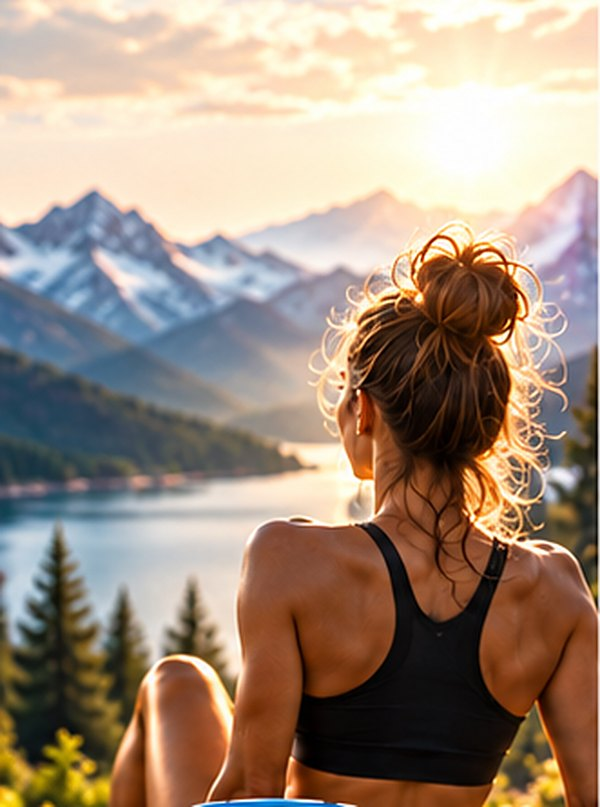
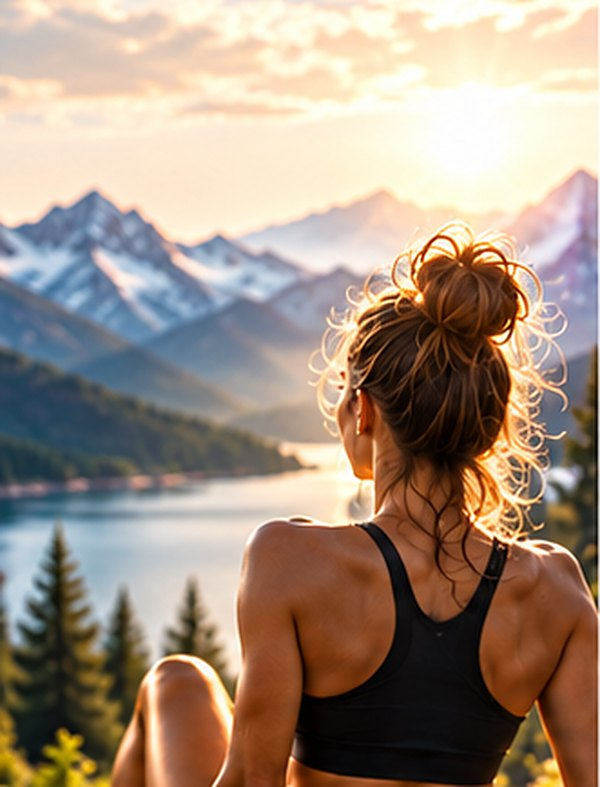
Email flows: crop the lake photo above the stray vial cap
The woman-by-the-lake photo (Welcome 2, Cart 2) showed a cut-off vial
cap along its bottom edge. Crop ends just above it.

Claude-Session: https://claude.ai/code/session_01PgsrqfpwjnR4MF8A18v3TV

diff --git a/lib/email-flows/defaults.ts b/lib/email-flows/defaults.ts
@@ -61,7 +61,7 @@ export const PLACEHOLDER_IMAGES = {
 export const PHOTOS = {
   manByLake: { url: '/images/email/photos/man-lake.jpg', ratio: 1.3483 },
   manByLakeVial: { url: '/images/email/photos/man-lake-vial.jpg', ratio: 0.545 },
-  womanByLake: { url: '/images/email/photos/woman-lake.jpg', ratio: 1.345 },
+  womanByLake: { url: '/images/email/photos/woman-lake.jpg', ratio: 1.3117 },
   vialsMountains: { url: '/images/email/photos/vials-mountains.jpg', ratio: 1.0367 },
   labVial: { url: '/images/email/photos/lab-vial.jpg', ratio: 0.9383 },
   threeVials: { url: '/images/email/photos/three-vials.jpg', ratio: 0.7508 },

diff --git a/docs/changelog/2026-10-15-email-flows.md b/docs/changelog/2026-10-15-email-flows.md
@@ -215,7 +215,7 @@ stretched cover:
 |---|---|---|
 | `man-lake` (man by the lake) | 1.35 | Cart 1 hero, headline over the sky |
 | `man-lake-vial` (vial in hand) | 0.55 | Cart 1 image above the button |
-| `woman-lake` (woman by the lake) | 1.35 | Welcome 2 and Cart 2 hero, headline over the sky |
+| `woman-lake` (woman by the lake) | 1.31 | Welcome 2 and Cart 2 hero, headline over the sky |
 | `dropper` (dropper over a vial) | 1.06 | Welcome 3 and Cart 4, under the headline |
 | `three-vials` (vials on rock, mountains) | 0.75 | Welcome 4 and Cart 3, under the offer |
 | `vials-mountains` (two vials, mountains) | 1.04 | Welcome 5, under the countdown |
